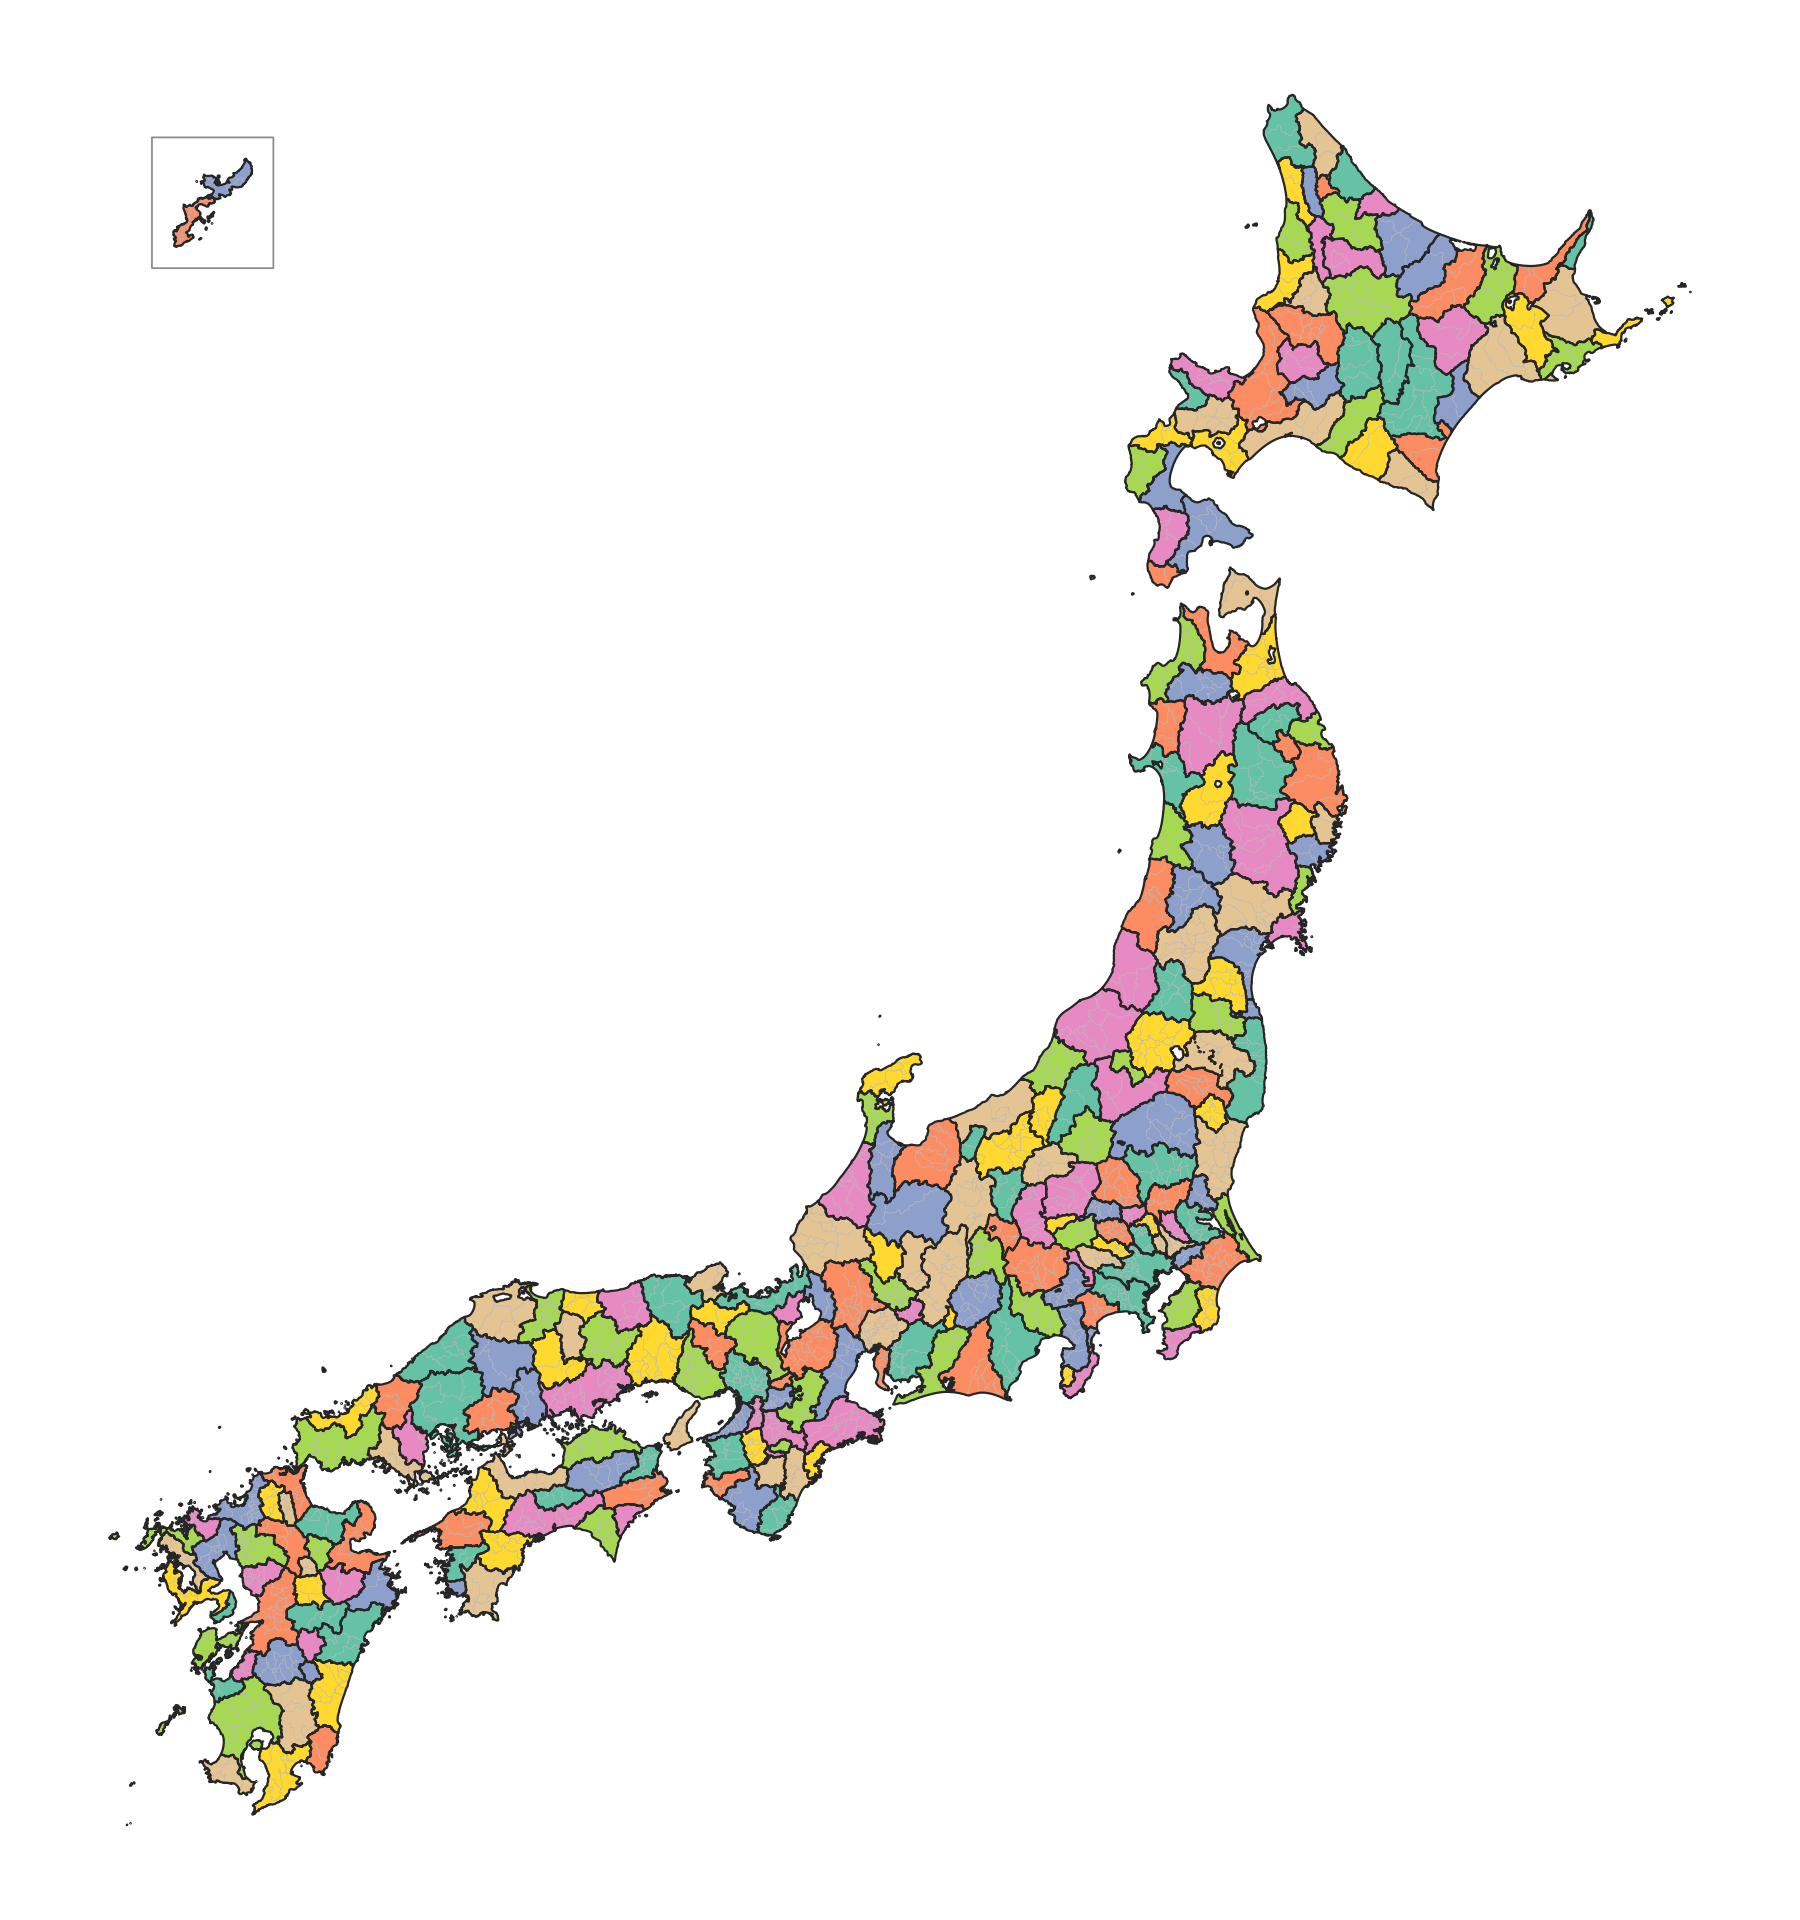
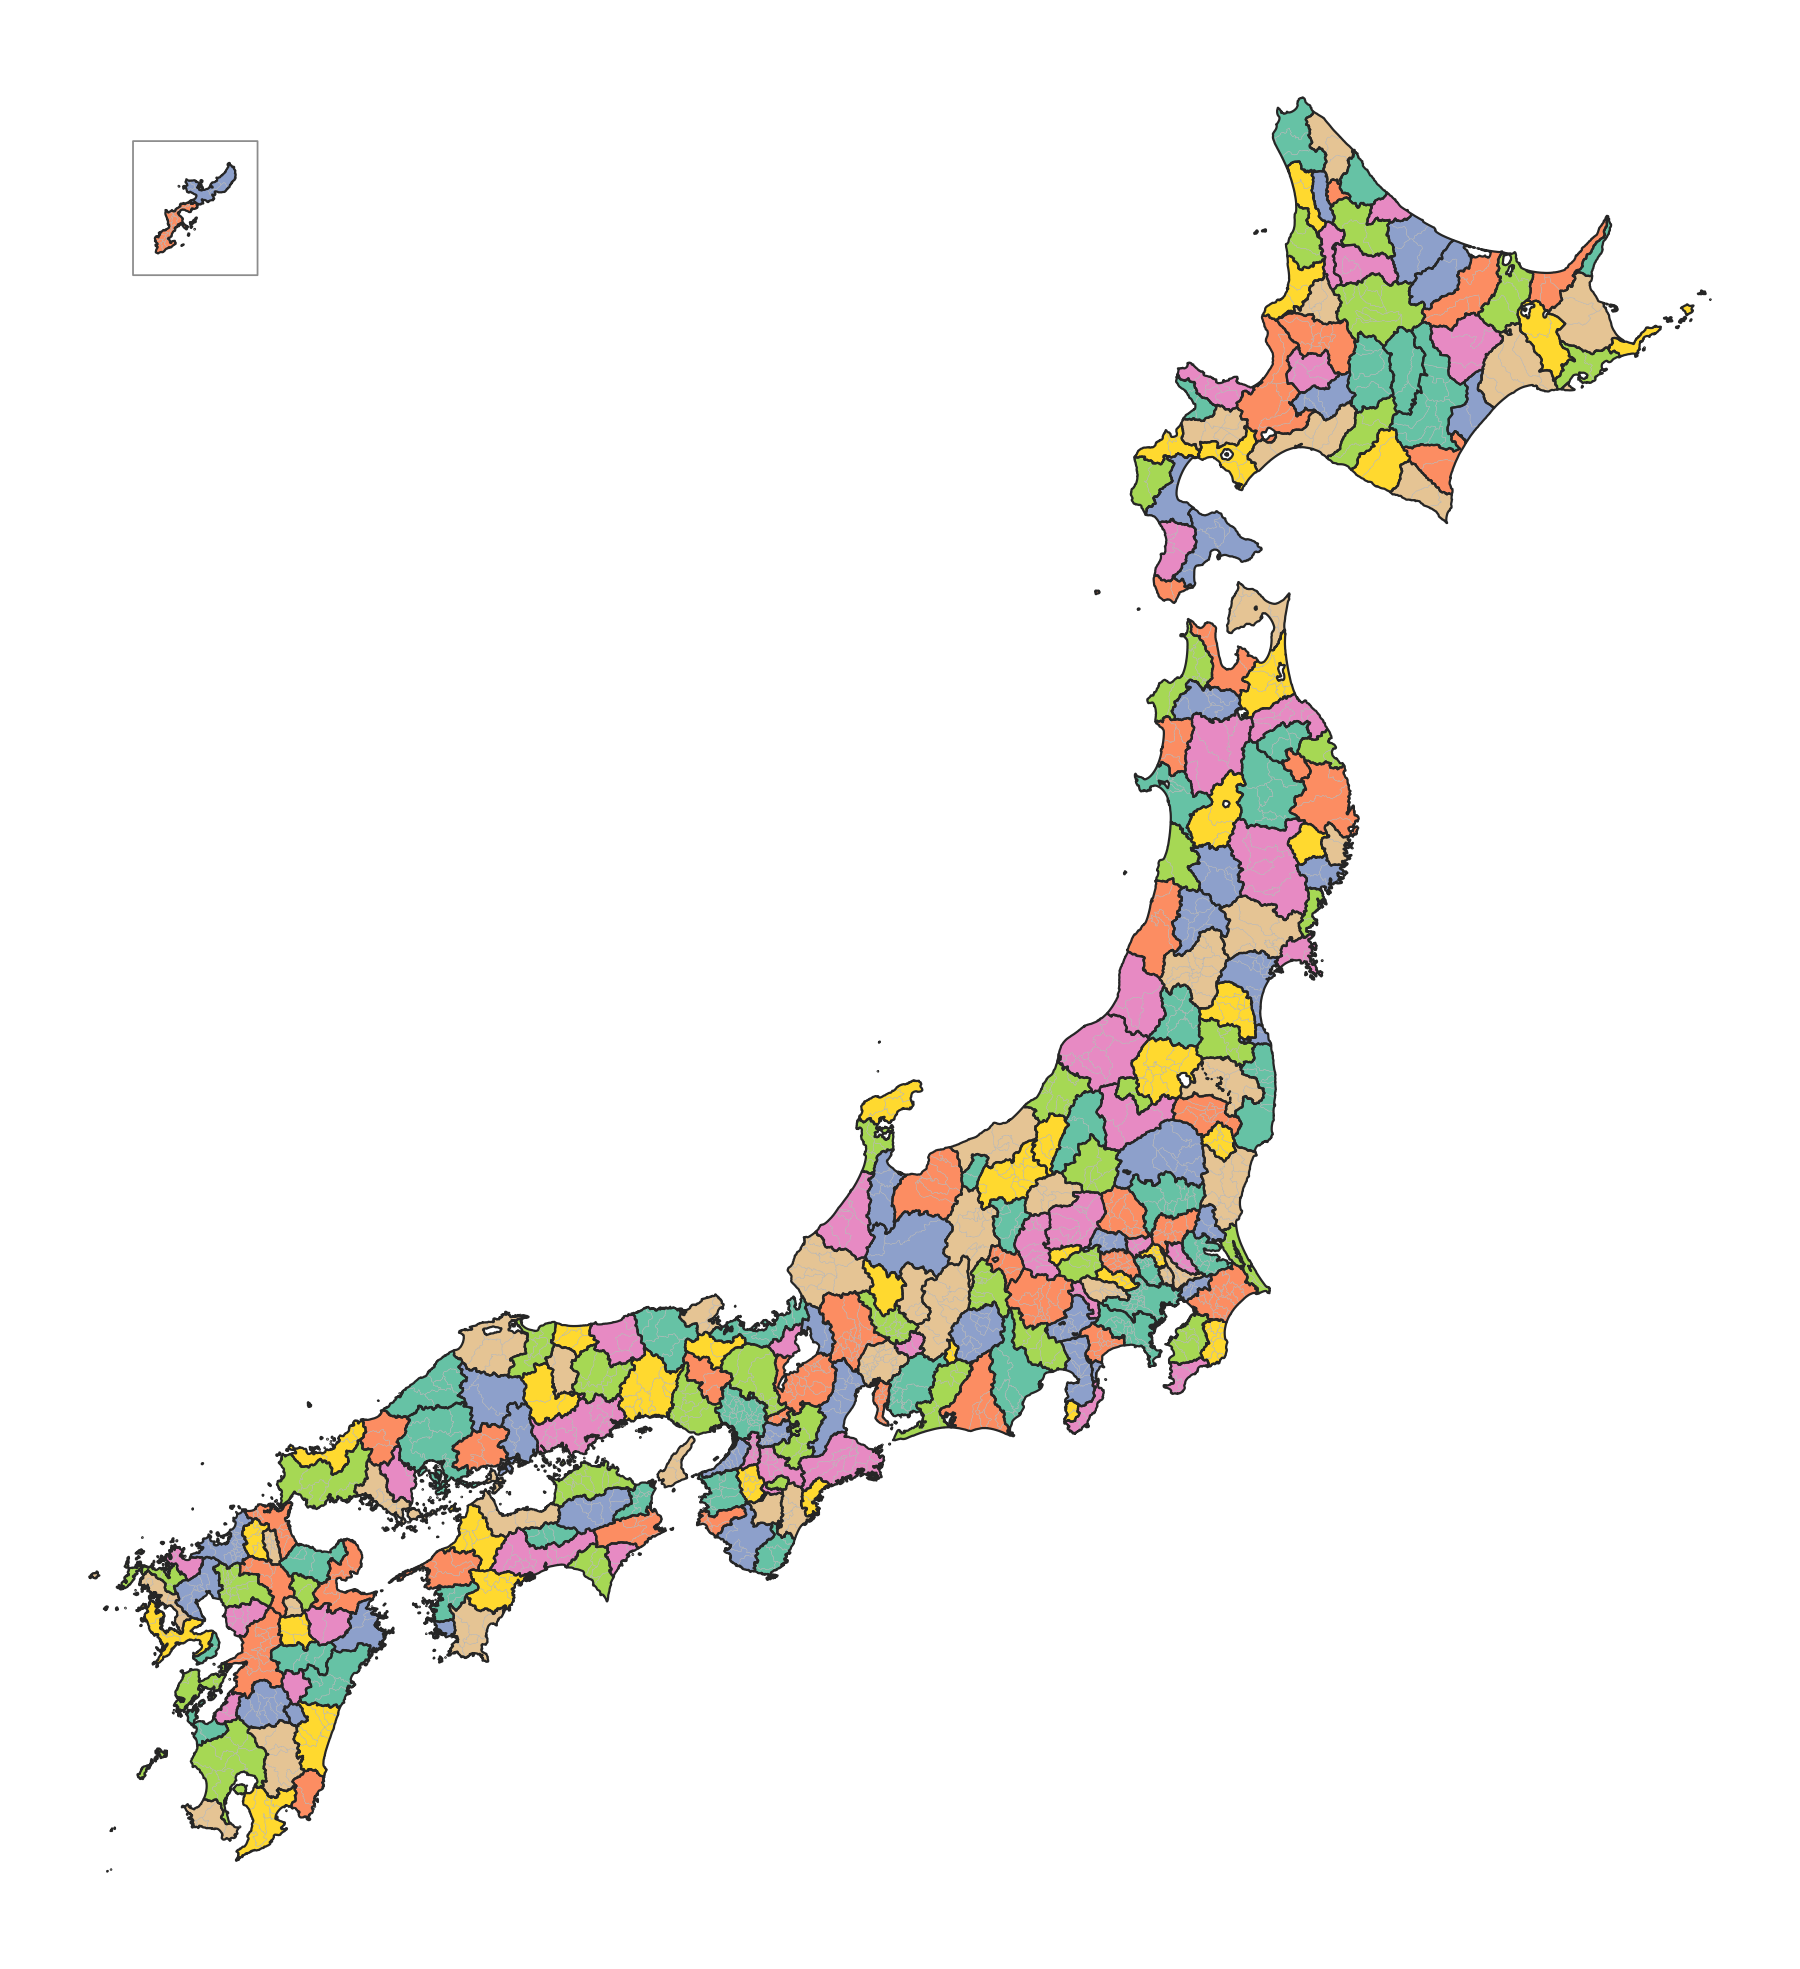
Write the paper's tables from the pipeline that computes them
The deck's fragments are set for a projector and the paper needs the same numbers set for
a reader who can stop and look, so make_paper_tables.R writes its own: the delineation
over every census year, the diagnostic and fit statistics for 2010 and 2020, four
appendix tables covering every year, and the macros the prose quotes. Each fragment holds
the tabular alone; the caption and the notes are written where the table is used.

Two scopes appear in them and every note says which. The published delineation covers
every municipality the census records, and that is what the table of the delineation
reports. The statistics replicating Fowler (2024) are computed on the main islands, which
is the like-for-like comparison and leaves out 0.46 percent of the labour force.

Claude-Session: https://claude.ai/code/session_014HWFPLG6CCa9ySK88ZrMLP

Changed region(s): [[0.0622, 0.0312, 0.9333, 0.9688], [0.0622, 0.0625, 0.1556, 0.125]]

diff --git a/validation/output/paper_tables/appendix_size.tex b/validation/output/paper_tables/appendix_size.tex
@@ -1,0 +1,15 @@
+\begin{tabular}{lrrrrrrrr}
+\hline\hline
+Year & \multicolumn{3}{c}{Resident labour force} & \multicolumn{3}{c}{Area (sq.\,km)} & \multicolumn{2}{c}{Compactness} \\\cline{2-4} \cline{5-7} \cline{8-9}& Smallest & Average & Largest & Smallest & Average & Largest & Zones & Municipalities \\
+\hline
+1980 & 286 & 120,006 & 4,761,443 & 16 & 944 & 3,464 & 0.33 & 0.41 \\
+1985 & 650 & 139,881 & 5,482,720 & 24 & 1,060 & 3,839 & 0.33 & 0.41 \\
+1990 & 788 & 168,711 & 5,927,239 & 24 & 1,184 & 4,429 & 0.32 & 0.41 \\
+1995 & 723 & 189,076 & 5,300,358 & 24 & 1,289 & 4,429 & 0.32 & 0.41 \\
+2000 & 523 & 202,706 & 6,000,065 & 109 & 1,393 & 4,429 & 0.31 & 0.41 \\
+2005 & 295 & 210,644 & 5,439,539 & 100 & 1,515 & 4,733 & 0.31 & 0.41 \\
+2010 & 530 & 202,694 & 4,929,463 & 184 & 1,574 & 5,744 & 0.30 & 0.41 \\
+2015 & 479 & 207,690 & 5,031,627 & 184 & 1,627 & 5,744 & 0.30 & 0.41 \\
+2020 & 475 & 207,532 & 5,624,897 & 100 & 1,630 & 5,744 & 0.30 & 0.41 \\
+\hline\hline
+\end{tabular}

diff --git a/validation/output/paper_tables/appendix_core.tex b/validation/output/paper_tables/appendix_core.tex
@@ -1,0 +1,15 @@
+\begin{tabular}{lrrrrrrr}
+\hline\hline
+Year & \multicolumn{4}{c}{Urban Employment Area} & \multicolumn{3}{c}{District population 10,000 or more} \\\cline{2-5} \cline{6-8}& With core & Work in & Live in & Split & With core & Work in & Live in \\
+\hline
+1980 & 55.6\% & 57.9\% & 53.5\% & 50 & 60.5\% & 73.9\% & 72.4\% \\
+1985 & -- & -- & -- & -- & 64.1\% & 74.1\% & 72.8\% \\
+1990 & 61.6\% & 55.9\% & 51.2\% & 46 & 68.4\% & 74.6\% & 73.4\% \\
+1995 & 65.2\% & 54.5\% & 49.9\% & 50 & 72.0\% & 74.4\% & 73.4\% \\
+2000 & 68.6\% & 54.3\% & 49.8\% & 55 & 74.7\% & 74.8\% & 73.9\% \\
+2005 & 70.8\% & 52.8\% & 48.5\% & 39 & 77.1\% & 74.4\% & 73.6\% \\
+2010 & 72.7\% & 52.3\% & 47.9\% & 31 & 77.9\% & 74.0\% & 73.2\% \\
+2015 & 74.0\% & 51.3\% & 47.0\% & 34 & 78.5\% & 73.6\% & 72.9\% \\
+2020 & 67.7\% & 51.9\% & 47.7\% & 33 & 73.5\% & 74.4\% & 73.9\% \\
+\hline\hline
+\end{tabular}

diff --git a/validation/output/paper_tables/appendix_containment.tex b/validation/output/paper_tables/appendix_containment.tex
@@ -1,0 +1,15 @@
+\begin{tabular}{lrrrrrrr}
+\hline\hline
+Year & Minimum & Fifth & Median & Mean & Labour-force & Share of the & Mean work \\& & percentile & & & weighted mean & labour force & contained \\
+\hline
+1980 & 42.9\% & 72.3\% & 94.2\% & 91.0\% & 88.8\% & 88.7\% & 94.5\% \\
+1985 & 23.0\% & 66.8\% & 94.1\% & 90.3\% & 88.5\% & 88.2\% & 93.9\% \\
+1990 & 21.2\% & 68.6\% & 93.6\% & 89.9\% & 87.8\% & 87.3\% & 93.4\% \\
+1995 & 20.9\% & 62.3\% & 93.3\% & 89.1\% & 86.7\% & 86.3\% & 92.6\% \\
+2000 & 40.6\% & 69.8\% & 93.4\% & 89.9\% & 87.0\% & 86.6\% & 92.3\% \\
+2005 & 41.4\% & 70.6\% & 93.2\% & 89.8\% & 86.8\% & 86.1\% & 92.2\% \\
+2010 & 44.5\% & 67.5\% & 93.3\% & 90.0\% & 86.5\% & 85.8\% & 92.1\% \\
+2015 & 49.2\% & 73.9\% & 92.7\% & 90.3\% & 86.4\% & 85.6\% & 91.7\% \\
+2020 & 40.5\% & 73.3\% & 93.0\% & 90.3\% & 87.0\% & 86.2\% & 91.4\% \\
+\hline\hline
+\end{tabular}

diff --git a/validation/output/paper_tables/diagnostics.tex b/validation/output/paper_tables/diagnostics.tex
@@ -1,0 +1,21 @@
+\begin{tabular}{lrr}
+\hline\hline
+& 2010 & 2020 \\
+\hline
+Municipalities in the delineation & 1,656 & 1,655 \\
+Commuting zones & 231 & 223 \\
+Single-municipality zones & 9 & 10 \\
+Municipalities in the largest zone & 27 & 29 \\
+Non-contiguous zones & 0 & 0 \\[3pt]
+Smallest zone, resident labour force & 530 & 475 \\
+Average zone, resident labour force & 202,694 & 207,532 \\
+Largest zone, resident labour force & 4,929,463 & 5,624,897 \\[3pt]
+Smallest zone area (sq.\,km) & 184 & 100 \\
+Average zone area (sq.\,km) & 1,574 & 1,630 \\
+Largest zone area (sq.\,km) & 5,744 & 5,744 \\[3pt]
+Compactness of zones & 0.30 & 0.30 \\
+Compactness of municipalities & 0.41 & 0.41 \\[3pt]
+United States, compactness of commuting zones & \multicolumn{2}{c}{0.40} \\
+United States, compactness of counties & \multicolumn{2}{c}{0.53} \\
+\hline\hline
+\end{tabular}

diff --git a/validation/output/paper_tables/appendix_constraint.tex b/validation/output/paper_tables/appendix_constraint.tex
@@ -1,0 +1,15 @@
+\begin{tabular}{lrrrrrrr}
+\hline\hline
+Year & \multicolumn{2}{c}{Commuting zones} & \multicolumn{2}{c}{Non-contiguous zones} & \multicolumn{2}{c}{Mean contained} & Jaccard \\\cline{2-3} \cline{4-5} \cline{6-7}& Without & With & Without & With & Without & With & similarity \\
+\hline
+1980 & 384 & 385 & 2 & 0 & 91.1\% & 91.0\% & 0.99 \\
+1985 & 341 & 343 & 2 & 0 & 90.4\% & 90.3\% & 0.99 \\
+1990 & 307 & 307 & 1 & 0 & 89.9\% & 89.9\% & 0.99 \\
+1995 & 281 & 282 & 2 & 0 & 89.2\% & 89.1\% & 1.00 \\
+2000 & 261 & 261 & 1 & 0 & 89.9\% & 89.9\% & 1.00 \\
+2005 & 239 & 240 & 0 & 0 & 90.1\% & 89.8\% & 0.99 \\
+2010 & 231 & 231 & 0 & 0 & 90.0\% & 90.0\% & 1.00 \\
+2015 & 225 & 223 & 2 & 0 & 90.1\% & 90.3\% & 0.99 \\
+2020 & 223 & 223 & 1 & 0 & 90.4\% & 90.3\% & 0.99 \\
+\hline\hline
+\end{tabular}

diff --git a/validation/output/paper_tables/delineation.tex b/validation/output/paper_tables/delineation.tex
@@ -1,0 +1,15 @@
+\begin{tabular}{lrrrrrrr}
+\hline\hline
+& \multicolumn{3}{c}{Whole country} & \multicolumn{4}{c}{Main islands} \\\cline{2-4} \cline{5-8}Year & Municipality & Commuting & Offshore & Municipality & Commuting & Single-unit & Largest \\& units & zones & zones & units & zones & zones & zone \\
+\hline
+1980 & 1,719 & 441 & 56 & 1,656 & 385 & 72 & 31 \\
+1985 & 1,719 & 398 & 55 & 1,656 & 343 & 56 & 29 \\
+1990 & 1,719 & 360 & 53 & 1,656 & 307 & 35 & 29 \\
+1995 & 1,719 & 335 & 53 & 1,656 & 282 & 26 & 28 \\
+2000 & 1,718 & 313 & 52 & 1,656 & 261 & 16 & 30 \\
+2005 & 1,719 & 292 & 52 & 1,656 & 240 & 12 & 27 \\
+2010 & 1,719 & 283 & 52 & 1,656 & 231 & 9 & 27 \\
+2015 & 1,714 & 275 & 52 & 1,651 & 223 & 9 & 29 \\
+2020 & 1,718 & 275 & 52 & 1,655 & 223 & 10 & 29 \\
+\hline\hline
+\end{tabular}

diff --git a/validation/output/paper_tables/fit.tex b/validation/output/paper_tables/fit.tex
@@ -1,0 +1,18 @@
+\begin{tabular}{lrr}
+\hline\hline
+& 2010 & 2020 \\
+\hline
+\multicolumn{3}{l}{\emph{Core}} \\
+\quad Urban areas split across zones & 31 & 33 \\
+\quad Zones containing a core & 72.7\% & 67.7\% \\
+\quad Residents working in a core of their zone & 52.3\% & 51.9\% \\
+\quad Workforce living in a core of their zone & 47.9\% & 47.7\% \\[3pt]
+\multicolumn{3}{l}{\emph{Containment}} \\
+\quad Minimum contained & 44.5\% & 40.5\% \\
+\quad Fifth percentile contained & 67.5\% & 73.3\% \\
+\quad Median contained & 93.3\% & 93.0\% \\
+\quad Mean contained & 90.0\% & 90.3\% \\
+\quad Share of the labour force contained & 85.8\% & 86.2\% \\
+\quad Mean work contained & 92.1\% & 91.4\% \\
+\hline\hline
+\end{tabular}

diff --git a/validation/output/paper_tables/numbers.tex b/validation/output/paper_tables/numbers.tex
@@ -1,0 +1,19 @@
+\newcommand{\zonesLatest}{275}
+\newcommand{\unitsLatest}{1,718}
+\newcommand{\zonesFirst}{441}
+\newcommand{\unitsFirst}{1,719}
+\newcommand{\zonesFifteen}{275}
+\newcommand{\unitsFifteen}{1,714}
+\newcommand{\islandShare}{0.46\%}
+\newcommand{\meanSimilarity}{0.86}
+\newcommand{\bestCutoff}{0.975}
+\newcommand{\bestSimilarity}{0.86}
+\newcommand{\plateauLow}{0.975}
+\newcommand{\plateauHigh}{0.978}
+\newcommand{\plateauZonesLow}{218}
+\newcommand{\plateauZonesHigh}{232}
+\newcommand{\usCountyCompactness}{0.53}
+\newcommand{\usZoneCompactness}{0.40}
+\newcommand{\usZones}{593}
+\newcommand{\constraintSimilarity}{0.99}
+\newcommand{\constraintDetached}{2}
